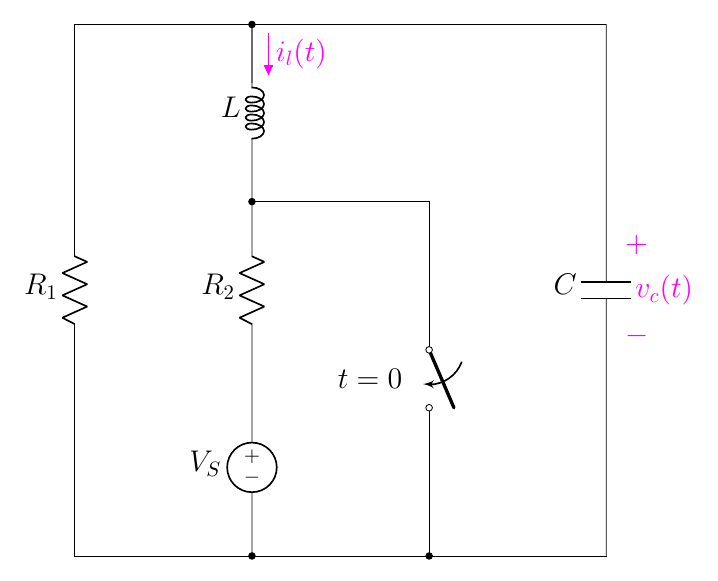
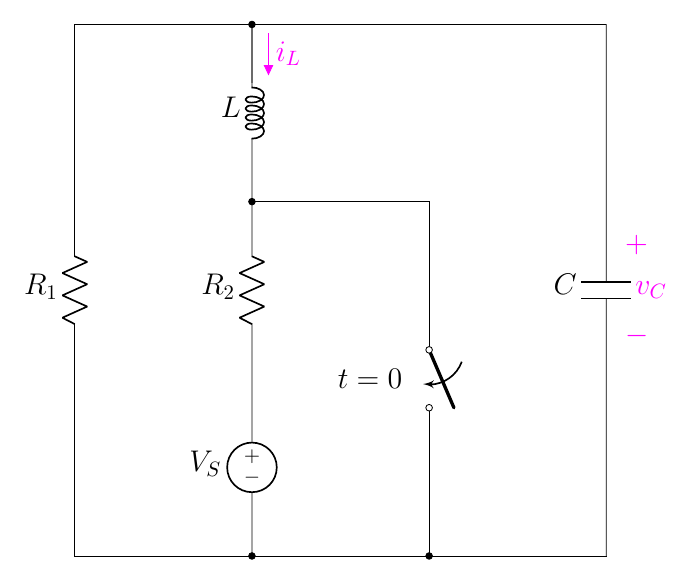
8.48

diff --git a/2.10 Step Response of a Parallel RLC/8.6 Complete Response Parallel/8.48(new).tex b/2.10 Step Response of a Parallel RLC/8.6 Complete Response Parallel/8.48(new).tex
@@ -34,10 +34,10 @@
     \node at (5,3)[]{$t=0$};
 
     \draw[magenta](9.2,3.5)
-        to[open, v>=$v_c(t)$] ++(0,2);
+        to[open, v>=$v_C$] ++(0,2);
 
     \draw[circuitikz/current arrow color=magenta](3,9)
-        to[open,f>^=$\color{magenta}{i_l(t)}$] ++(0,-2.4);
+        to[open,f>^=$\color{magenta}{i_L}$] ++(0,-2.4);
 
 \end{circuitikz}
 \end{document}
